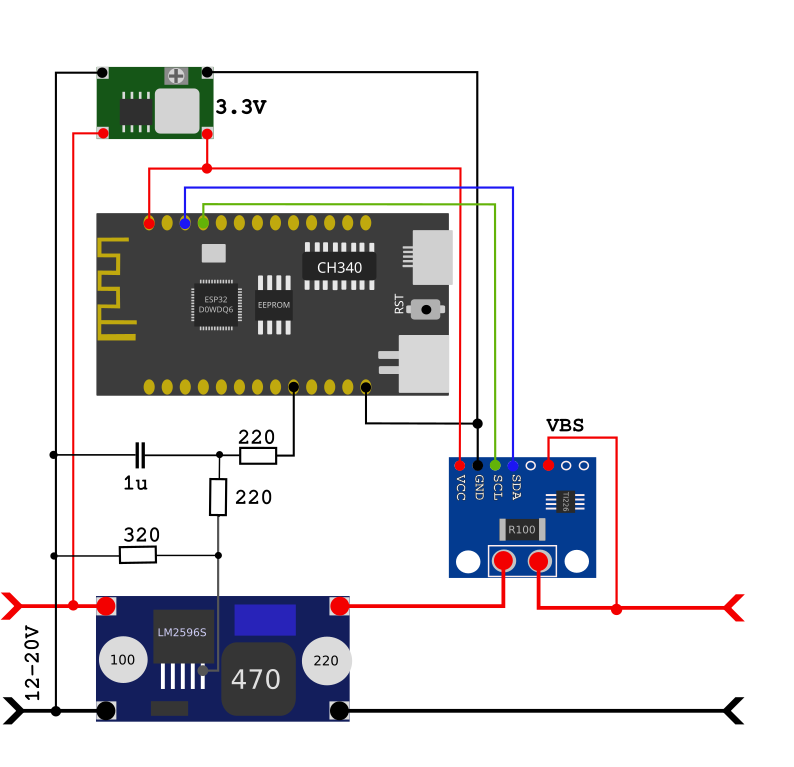
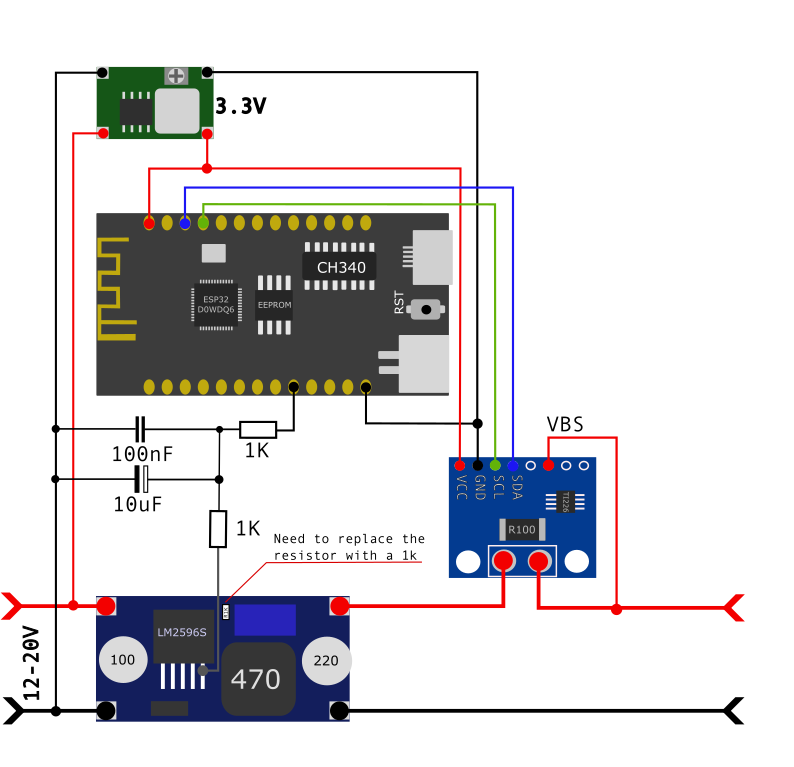
Update scheme and improve HTML UI
* Update scheme

* Enhance PWM UI and refactor ViewModel class

* Refactor PWM handling and add keyboard controls for value adjustment

* Enhance PWM control with debounce handling for smoother adjustments

* Fix comments

diff --git a/data/main.js b/data/main.js
@@ -46,8 +46,11 @@ class State{
     copyVoltsCurrent(volts, current) { return new State(this.pwmValue, this.pwmEnabled, volts, current); }
 }
 
-class VM {
+class ViewModel {
     constructor(espRepo, updateUi) {
+        this.repeatTimeMs = 100;
+        this.delayTimeMs = 1200;
+        this.sendPwmTimeMs = 500;
         this.state = new State(255, false);
         this.espRepo = espRepo;
         this.updateUi = updateUi;
@@ -68,9 +71,10 @@ class VM {
         this.state = this.state.copyPwmEnabled(!this.state.pwmEnabled);
         const xhr = new XMLHttpRequest();
         if (this.state.pwmEnabled)
-            xhr.open('GET','./pwmon?channel=0&freq=20000&res=8&pin=1&duty=' + this.pwmValue,true);
+            xhr.open('GET','./pwmon?channel=0&freq=20000&res=8&pin=1&duty=' + 
+                this.state.pwmValue, true);
         else 
-            xhr.open('GET','./pwmoff?channel=0',true);
+            xhr.open('GET','./pwmoff?channel=0', true);
 
         xhr.onreadystatechange = () => {
             if (xhr.readyState===4) {
@@ -86,11 +90,30 @@ class VM {
         xhr.send();
     }
 
-    onSlider(value) {
-        const newValue = value;
-        if (newValue == this.state.pwmValue) return;
-        this.state = this.state.copyPwmValue(newValue);
-        if (this.state.pwmEnabled) espRepo.sendPwmValue(0, this.state.pwmValue);
+    onSetPwm(value, final) {
+        if (value < 0) value = 0;
+        if (value > 255) value = 255;
+        if (value == this.state.pwmValue && !final) return;
+        this.state = this.state.copyPwmValue(value);
+        const channel = 0;
+        
+        if (this.state.pwmEnabled) {
+            if (final) {
+                if (this.debounceTimer) {
+                    clearInterval(this.debounceTimer);
+                    this.debounceTimer = null;
+                }
+                this.espRepo.sendPwmValue(channel, this.state.pwmValue);
+            } else {
+                // Debounce non-final values
+                if (this.debounceTimer == null) {
+                    this.debounceTimer = setInterval(() => {
+                        this.espRepo.sendPwmValue(channel, this.state.pwmValue);
+                    }, this.sendPwmTimeMs);
+                }
+            }
+        }
+        
         this.updateUi(this.state);
     }
 
@@ -124,5 +147,46 @@ class VM {
         };
         xhr.onerror = () => console.error('Network error');
         xhr.send();
+    }
+
+    cleanPwmChangeTimers() {
+        if (this.delayTimer != null) {
+            clearTimeout(this.delayTimer);
+            this.delayTimer = null;
+        }
+        if (this.repeatInterval != null) {
+            clearInterval(this.repeatInterval);
+            this.repeatInterval = null;
+        }
+    }
+
+    onPwmValuePlusDown() {
+        this.onSetPwm(this.state.pwmValue + 1, false);
+        this.cleanPwmChangeTimers();
+        this.delayTimer = setTimeout(() => {
+            this.repeatInterval = setInterval(() => {
+                this.onSetPwm(this.state.pwmValue + 1, false);
+            }, this.repeatTimeMs);            
+        }, this.delayTimeMs);
+    }
+
+    onPwmValuePlusUp() {
+        this.cleanPwmChangeTimers();
+        this.onSetPwm(this.state.pwmValue, true);
+    }
+
+    onPwmValueMinusDown() {
+        this.onSetPwm(this.state.pwmValue - 1, false);
+        this.cleanPwmChangeTimers();
+        this.delayTimer = setTimeout(() => {
+            this.repeatInterval = setInterval(() => {
+                this.onSetPwm(this.state.pwmValue - 1, false);
+            }, this.repeatTimeMs);            
+        }, this.delayTimeMs);
+    }
+
+    onPwmValueMinusUp() {
+        this.cleanPwmChangeTimers();
+        this.onSetPwm(this.state.pwmValue, true);
     }
 }

diff --git a/data/index.html b/data/index.html
@@ -15,7 +15,7 @@
         </div>
         <div id="home" style="padding: 7pt;">
             <div class="sec">
-            <div class="ttl" id="btnPwm">PWM</div><span id="valuePwm">255</span>
+            <div class="ttl active" id="btnPwm">PWM</div><span id="valuePwm">255</span>
             </div>
             <input type="range" min="0" max="8192" value="8192" class="slider" id="sliderPwm">
             <div class="sec">
@@ -43,21 +43,46 @@
             });
         }
         
+        const btnPwm = document.getElementById("btnPwm");
         const slider = document.getElementById("sliderPwm");
         const output = document.getElementById("valuePwm");
         const uiValueV = document.getElementById("valueV");
         const uiValueA = document.getElementById("valueA");
 
         function updateUi(state) {
-            output.textContent = state.pwmValue + " " + state.pwmEnabled;
+            if (state.pwmEnabled) {
+                btnPwm.classList.add("red");
+            } else {
+                btnPwm.classList.remove("red");
+            }
+            output.textContent = state.pwmValue;
             slider.value = state.pwmValue * 32;
             uiValueV.textContent = state.volts;
             uiValueA.textContent = state.current;
         }
         
         const espRepo = new EspRepo();
-        const vm = new VM(espRepo, updateUi);
-        slider.addEventListener("input", (event) => { vm.onSlider( Math.floor(event.target.value / 32));});
-        document.getElementById("btnPwm").addEventListener('click', (event) => { vm.onPwmClick(); });
+        const vm = new ViewModel(espRepo, updateUi);
+        slider.addEventListener("input", (event) => { vm.onSetPwm( Math.floor(event.target.value / 32), false);});
+        slider.addEventListener("change", (event) => { vm.onSetPwm( Math.floor(event.target.value / 32), true);});
+        btnPwm.addEventListener('click', (event) => { vm.onPwmClick(); });
+
+        document.addEventListener('keydown', (event) => {
+            if (event.repeat) return;
+            if (event.code === 'KeyI') {
+                vm.onPwmValueMinusDown();
+            } else if (event.code === 'KeyO') {
+                vm.onPwmValuePlusDown();
+            }
+        });
+        document.addEventListener('keyup', (event) => {
+            if (event.code === 'KeyP') {
+                vm.onPwmClick();
+            } else if (event.code === 'KeyI') {
+                vm.onPwmValueMinusUp();
+            } else if (event.code === 'KeyO') {
+                vm.onPwmValuePlusUp();
+            }
+        });
     </script>
 </body></html>

diff --git a/data/styles.css b/data/styles.css
@@ -29,11 +29,21 @@ body {
     width: 32pt;
     height: 32pt;
     font-size: 12pt;
-    border: 2px solid #444;
+    border: 2px solid #888;
     border-radius: 7px;
     justify-content: center;
     align-items: center;
-    box-shadow: 2px 2px 2px 2px #AAA;
+    box-shadow: 2px 2px 2px 2px #BBB;
+    background-color: #AAA;
+}
+
+.ttl.active {
+    background-color: #fff;
+    border: 2px solid #444;
+}
+
+.ttl.active.red {
+    background-color: #f44;
 }
 
 .slider {
